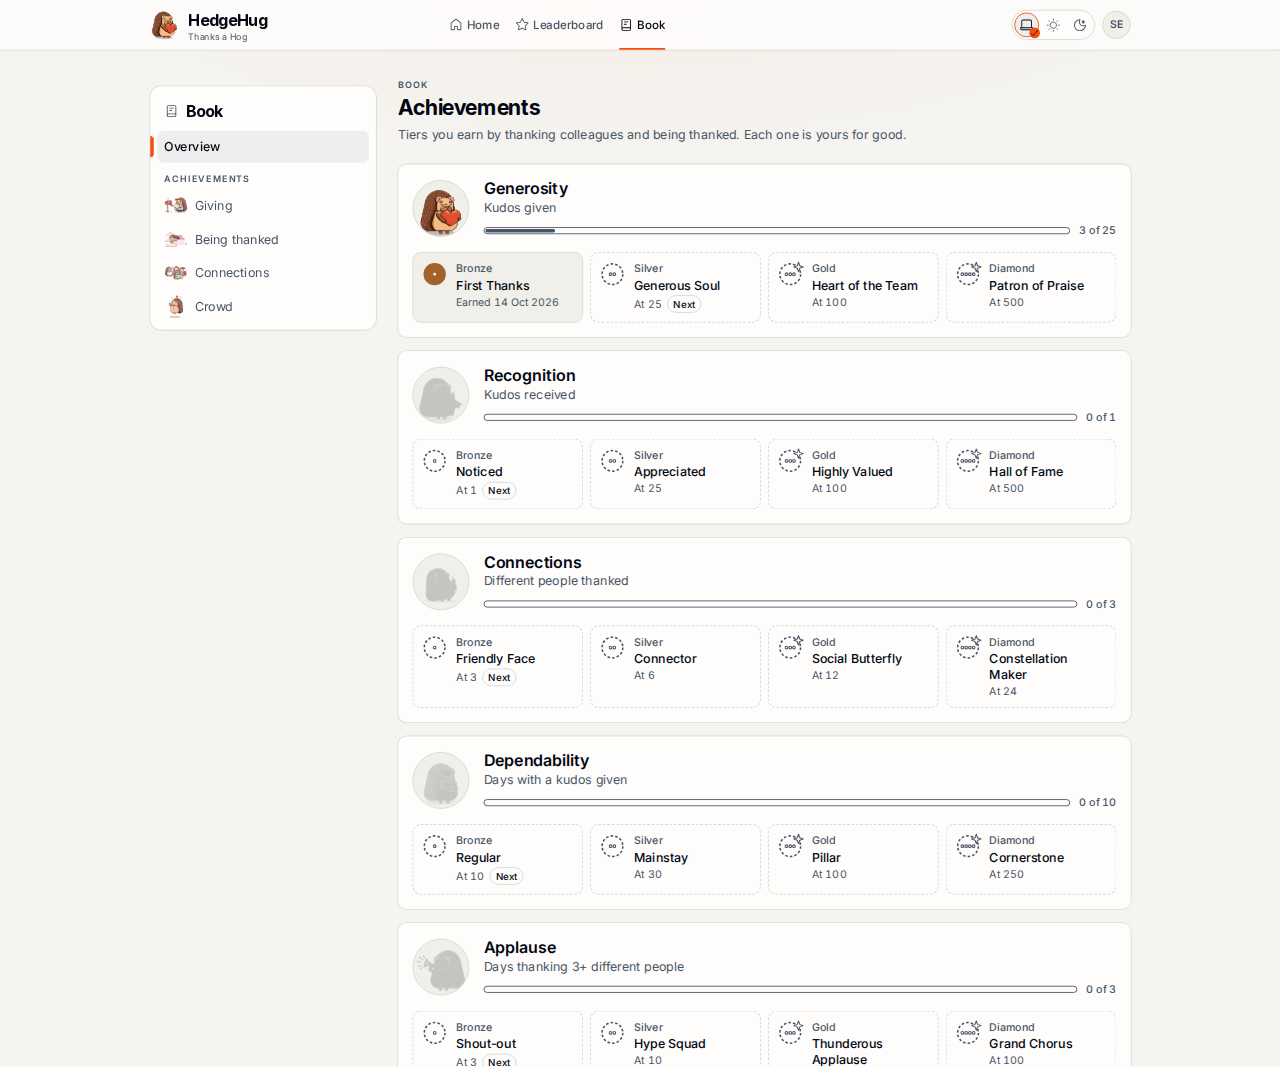
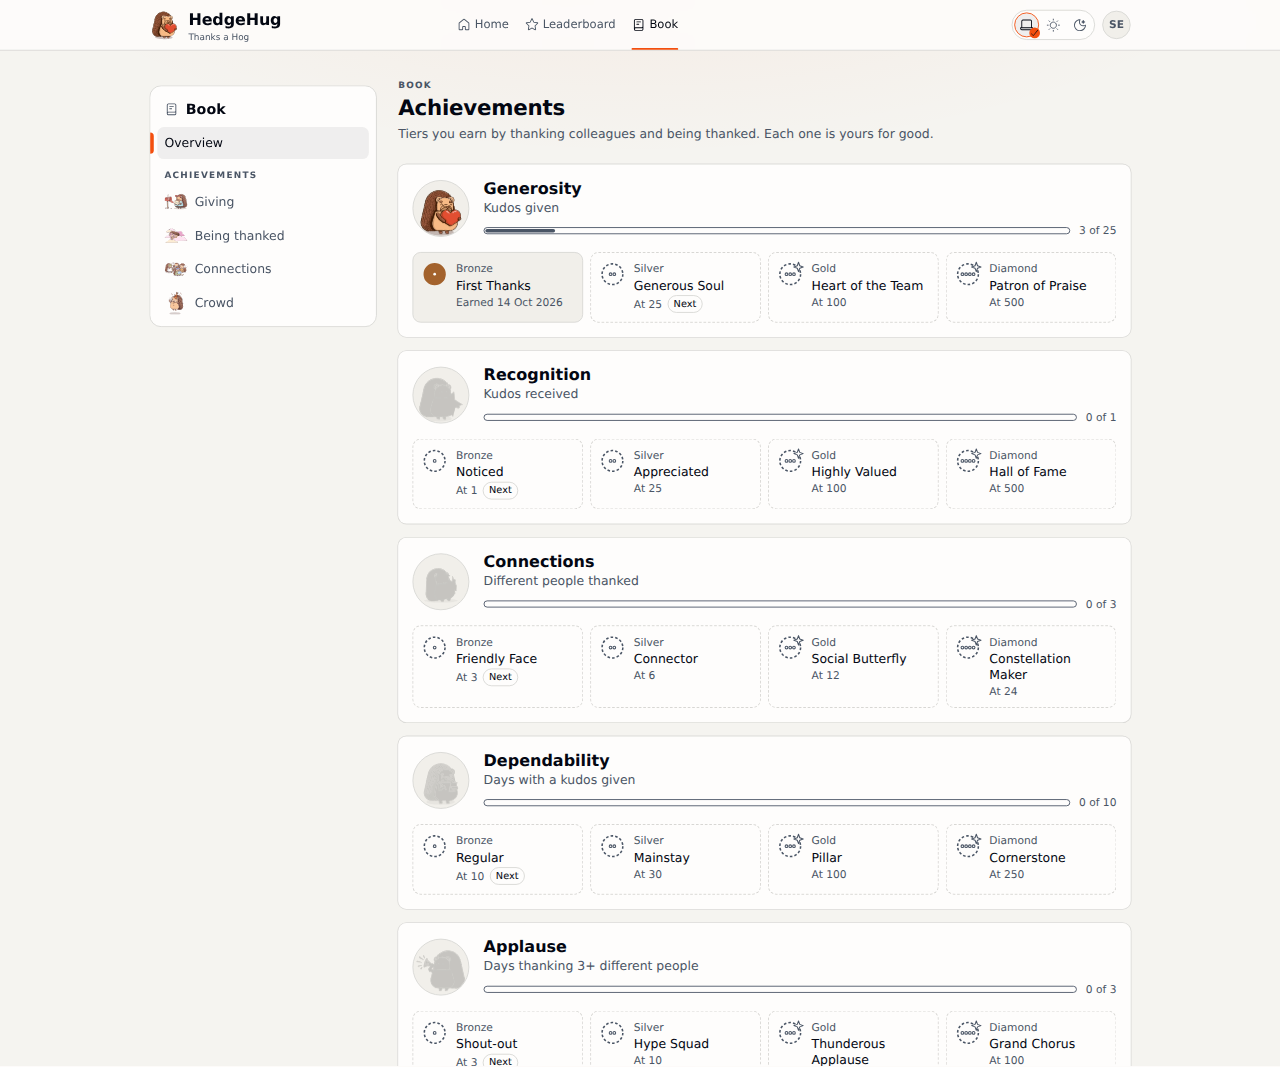
Polish the Book index after the Fable spot check: Inter heading, focus ring, hover-only tilt

diff --git a/website/src/book/BookIndex.tsx b/website/src/book/BookIndex.tsx
@@ -12,7 +12,7 @@ export function BookIndex({ chapters, current }: IndexProps) {
       <div className="relative flex flex-col gap-1 rounded-xl border bg-card p-2">
         <div className="flex items-center gap-2 px-2 pb-1 pt-1.5">
           <IconBook className="size-4 text-muted-foreground" />
-          <span className="hud-display text-lg font-bold">Book</span>
+          <span className="text-base font-semibold">Book</span>
         </div>
         <IndexEntry page="overview" current={current}>
           Overview
@@ -39,7 +39,7 @@ function IndexEntry({ page, current, children }: { page: BookPageId; current: Bo
     <AppLink
       href={bookHref(page)}
       aria-current={here ? "page" : undefined}
-      className={`relative flex min-h-9 items-center gap-2 rounded-md px-2 py-1.5 text-sm transition-colors ${here ? "bg-fill-selected font-medium text-foreground before:absolute before:inset-y-1.5 before:-left-2 before:w-1 before:rounded-r-full before:bg-primary" : "text-muted-foreground hover:bg-fill-hover hover:text-foreground"}`}
+      className={`relative flex min-h-9 items-center gap-2 rounded-md px-2 py-1.5 text-sm transition-colors focus-visible:outline-2 focus-visible:outline-offset-2 focus-visible:outline-ring ${here ? "bg-fill-selected font-medium text-foreground before:absolute before:inset-y-1.5 before:-left-2 before:w-1 before:rounded-r-full before:bg-primary" : "text-muted-foreground hover:bg-fill-hover hover:text-foreground"}`}
     >
       {children}
     </AppLink>
@@ -49,11 +49,11 @@ function IndexEntry({ page, current, children }: { page: BookPageId; current: Bo
 export function BookPagePicker({ chapters, current }: IndexProps) {
   const navigate = useNavigate();
   return (
-    <label className="relative flex flex-col gap-1">
+    <label className="relative mb-2 flex flex-col gap-1">
       <span className="hud-label flex items-center gap-1.5">
         <IconBook className="size-3.5" /> Book page
       </span>
-      <select value={bookHref(current)} onChange={(event) => navigate(event.target.value)} className="h-11 w-full appearance-none rounded-lg border border-muted-foreground bg-card pl-3 pr-9 text-sm font-medium text-foreground">
+      <select value={bookHref(current)} onChange={(event) => navigate(event.target.value)} className="h-11 w-full appearance-none rounded-lg border border-muted-foreground bg-card pl-3 pr-9 text-sm font-medium text-foreground focus-visible:outline-2 focus-visible:outline-offset-2 focus-visible:outline-ring">
         <option value={bookHref("overview")}>Overview</option>
         <optgroup label="Achievements">
           {chapters.map(({ category }) => (

diff --git a/website/src/index.css b/website/src/index.css
@@ -106,8 +106,7 @@ body {
     transition: transform 0.2s ease;
   }
 
-  a:hover .book-index-hog,
-  a[aria-current="page"] .book-index-hog {
+  a:hover .book-index-hog {
     transform: rotate(-8deg);
   }
 }

diff --git a/website/proof/book-index/README.md b/website/proof/book-index/README.md
@@ -1,0 +1,37 @@
+# The Book's page index and category pages (#280)
+
+WS331, WS332, WS339. Website only: `getBook`'s read is unchanged, so the screenshots come from the fixture build (`VITE_SHELL_FIXTURE=member-with-the-book-opened`, now answered with every shipped ladder, Generosity at bronze) at 1440 × 1200 and 390 × 844, served by `vite preview` on 127.0.0.1:7612 and driven in the T3 preview browser. No backend, flag or cloud deployment was touched.
+
+| Shot | What it shows |
+|---|---|
+| `1-overview-wide-light.png` | `/book?page=overview` canonicalised to `/book`: the Book pages column (Book icon, `Overview`, then `Achievements` with each category's emblem), `Overview` striped; every ladder in catalogue order below `Achievements`. |
+| `2-giving-wide-light.png` | `/book?page=giving`: Giving striped, the plain header (`Achievements` label, `Giving`, its blurb), then Generosity, Dependability and Seasons. |
+| `3-connections-wide-dark.png` | Connections in dark, blurb `The people you thank and old friends.` (E's album clause cut). |
+| `4-connections-390-dark.png` | 390 px dark: the native `Book page` select in place of the column. |
+| `5-crowd-390-light-after-select.png` | 390 px light after choosing `Crowd` in the select: `/book?page=crowd`, focus on the `Crowd` title, no blurb (E's is all chime-ins), Applause. `scrollWidth` 390, so no sideways scroll. |
+| `6-focus-ring-wide-dark.png` | Keyboard focus on `Being thanked` after tabbing through the HUD: a 2 px ring in `--ring`, offset 2 px. |
+
+E at the same state, for comparison: the #259 audit's [category pair](https://github.com/Silthus/kudos/blob/research/prototype-fidelity/research/prototype-fidelity/screenshots/compare-book-category-light.png) ([dark](https://github.com/Silthus/kudos/blob/research/prototype-fidelity/research/prototype-fidelity/screenshots/compare-book-category-dark.png)) and [overview pair](https://github.com/Silthus/kudos/blob/research/prototype-fidelity/research/prototype-fidelity/screenshots/compare-book-overview-light.png): the right half of each is E.
+
+## Kept from E, and left out on purpose
+
+- **Kept:** the sticky left index with the Book icon, `Overview`, the `Achievements` group label, the category emblems (E's Mailbox, Katy Perry, Coding Group and Party hedgehogs), the primary current-page stripe on the selected fill, the hover tilt of the emblem (no tilt under reduced motion), the native select with option groups below `lg`, the `Achievements` label above a category's title, and E's blurbs.
+- **Left out:** per-entry counts and bars, and category totals in headers (the overview's totals, WS334, #290); the hedgehog art beside page titles (V17: no hedgehogs in page headers); the index's corner marks (V2: a reading surface); paper styling (C10); the sticker albums group (WS346).
+
+## Manual pass (V24)
+
+- **Focus order:** the HUD (logo, nav, theme, account), then `Overview`, `Giving`, `Being thanked`, `Connections` and `Crowd`, then the page. On 390 px, the select comes straight after the HUD.
+- **Focus visibility:** index entries and the select draw a 2 px `--ring` outline, offset 2 px (`6-focus-ring-wide-dark.png`).
+- **Following a page:** an index entry or a select change moves without a reload and puts focus on the new page's title (tested and checked in the browser: `document.activeElement` is the `h1`).
+- **Reduced motion:** the only motion is the emblem's hover tilt, inside `prefers-reduced-motion: no-preference`.
+- **Screen-reader wording:** a `navigation` landmark named `Book pages`; each entry's name is just the category (the emblem is `aria-hidden`); the current entry carries `aria-current="page"`; the select is named `Book page`, with `Overview` and an `Achievements` group; the tab title is `HedgeHug · Book · {category}`.
+
+## Fable 5.1 design spot check
+
+Fable checked the screenshots against E and the visual language. Its findings and what changed:
+
+- **V5:** the index heading `Book` used RoundHog, which V5 keeps for titles. **Fixed:** Inter semibold.
+- **Focus visibility:** the index relied on the faint global outline. **Fixed:** an explicit `focus-visible` ring on the entries and the select.
+- **The current emblem's permanent tilt:** **fixed**, so only hover tilts it.
+- **Two small labels stacked on narrow screens:** **fixed** with more space under the select.
+- **Left for #281/#290:** the overview's own heading and structure, and the ladder details.
